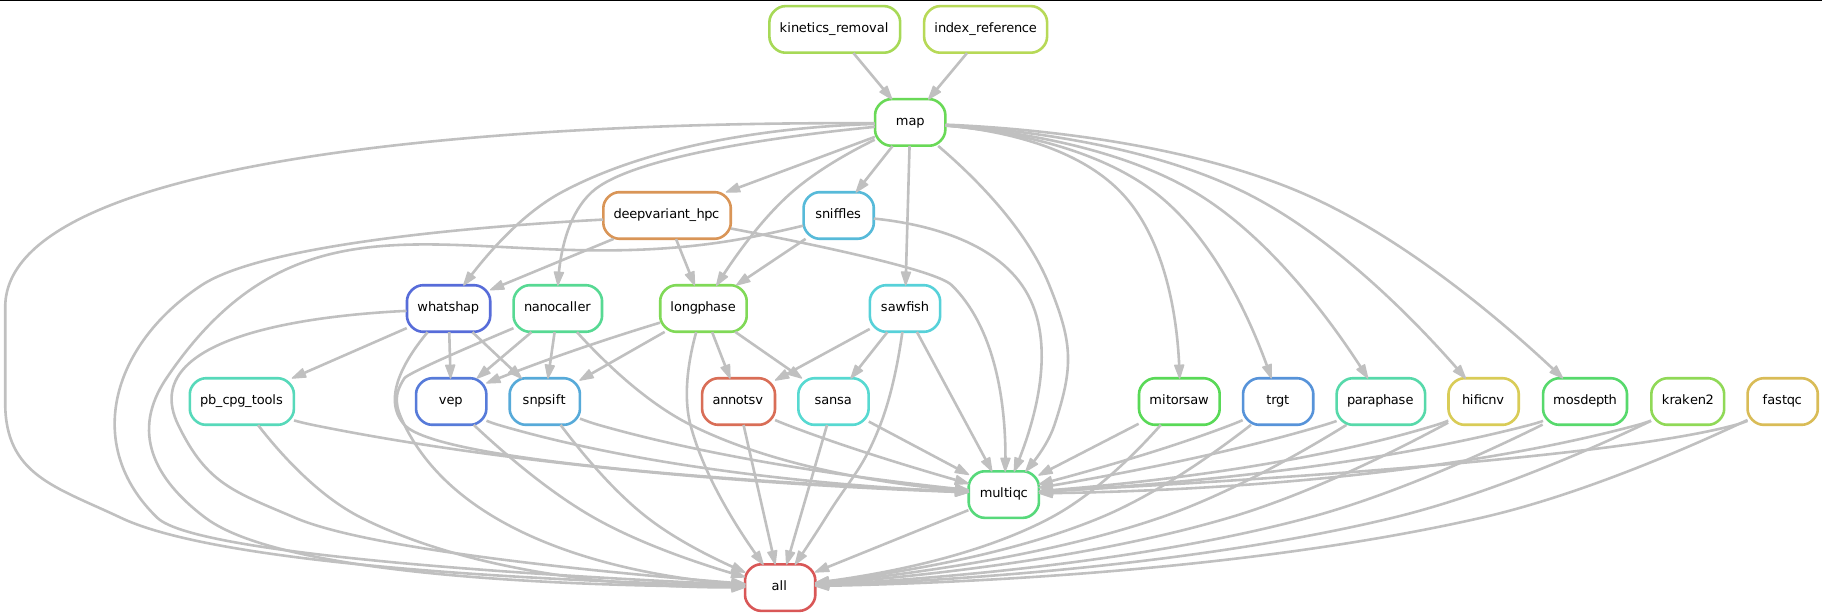
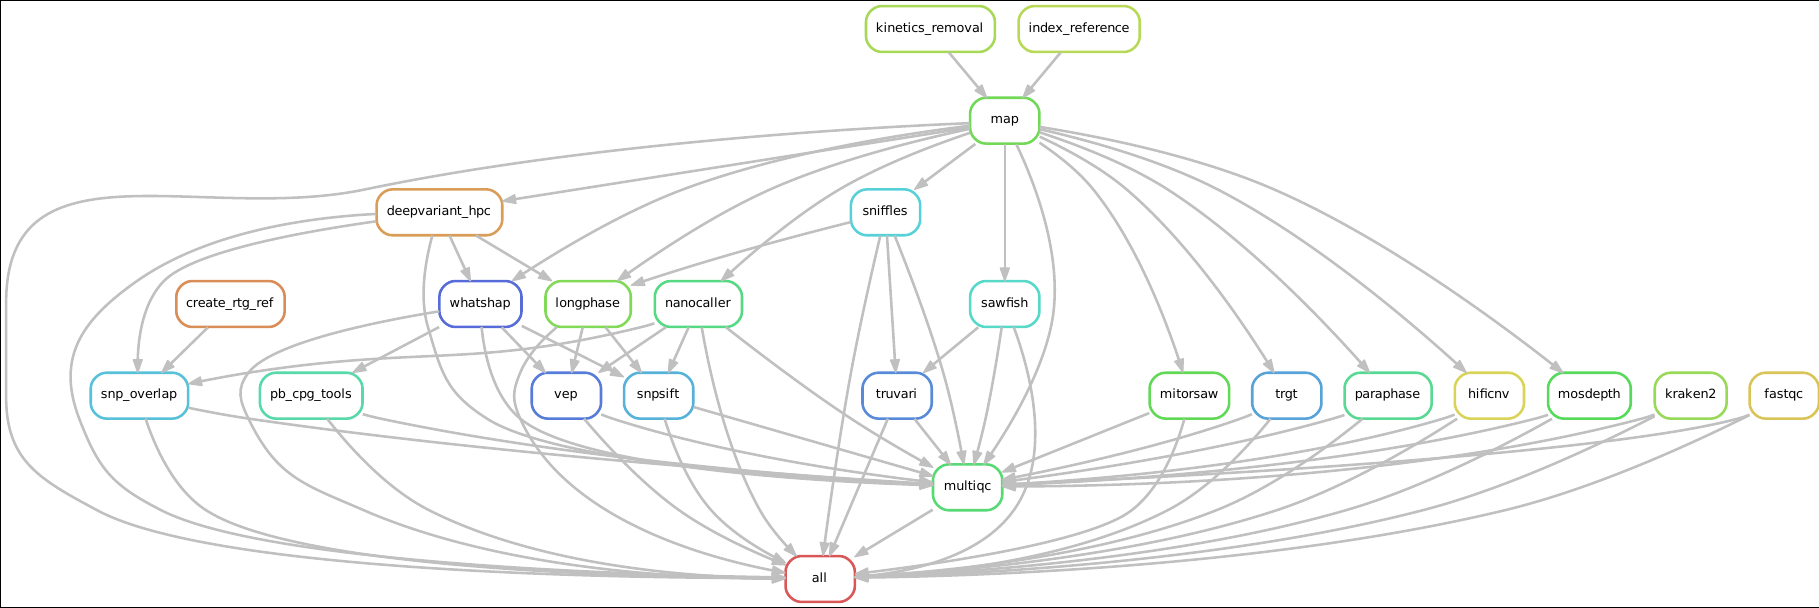
new: overlaps of snps and svs + paraviewer

diff --git a/README.md b/README.md
@@ -5,7 +5,7 @@ Only PacBio data for now
 
 __!!THIS PIPLINE IS IN-DEVELOPMENT AND EXPERIMENTAL, USE AT YOUR OWN RISK!!__
 
-## what this tools aims to deliver:
+## what this tool aims to deliver:
     - newest and best tools suited for HiFi data (only for now)
     - singletons and trio analysis (trio is coming sometime...)
     - human-first (hg38 for now), others should be possible (untested...)
@@ -30,19 +30,23 @@ __!!THIS PIPLINE IS IN-DEVELOPMENT AND EXPERIMENTAL, USE AT YOUR OWN RISK!!__
     - SVs with sansa and AnnotSV
     - SNPs with vep and snpsift
     - both only tested with hg38 for now
+- if enabled, SNPs and SVs get overlaped (compared)
+    - svs: truvari overlaps sniffles as the "truth" to sawfish data for each sample
+    - snps: rtg-tools overlaps deepvariant or bcftools snps as the "truth" to nanocaller snps for each sample
+- if enabled, paraphase results get visualized with paraviewer
 
 ## how to run
 - make sure you have a conda environment active with snakemake9+ (called smk9 in the runPipeline_local.sh)
     - this can also be achieved by running the included setupPipeline_hpc.sh
         - that script uses conda to create the env smk9 - with snakemake 9 installed already (check file smk9.yaml)
-- cp/mv/ln your unmapped .bam file into the root folder of this directory (pb_variants/.)
+- cp/mv/ln your unmapped .bam file into the root folder of this directory (pb_variants/your_bam_file_here.bam)
 - edit samplesheet.csv with your filename 
-    - one sample per line, do not delete the header line
-- edit config.yaml to your liking/ folder structure
+    - one sample per line, do not delete the header line (add to line2: your_bam_file_here.bam)
+- edit config.yaml to your liking/ folder structure (enable only things you want / need. keep in mind some analysis are hg38 only)
 - make sure you are in an interactive terminal session inside a screen / tmux or similar
 - bash runPipeline_local.sh for local installment on single-server setups, 
 - bash runPipeline.sh on HPC 
-- non-hpc users need to edit the config.yaml and enable deepvariant and disable hpc in the config.yaml:
+- non-hpc users need to edit the config.yaml and enable deepvariant and disable deepvariant_hpc in the config.yaml:
 use_deepvariant_hpc: True <- only set this to True on HPC HILBERT
 
 
@@ -115,15 +119,9 @@ This DAG was made:
 
 - if a multiqc_report.html is in the outputfolder then the pipeline is done
 
-- if the interactive job is done, but the pipeline is not done yet, notify me
+- if the interactive job is done, but the pipeline is not done yet, retry
 
-- if no output files arrive after some time, notify me
-
-- if results look odd, notify me
-
-- if you want to understand more, notify me
-
-- if some (except logfiles) output files are 0 byte, notify me
+- if you want to understand more, email me
 
 
 ## transfering results:
@@ -132,12 +130,7 @@ This DAG was made:
 
 
 ## roadmap:
- ´ trio calling : deeptrio, glnexus´
-
-
-
-## roadmap:
-- trio calling : deeptrio, glnexus
+ ´ trio calling : deeptrio, glnexus ´ -> only if there are requests for this. 
 
 
 ## why this work is being done:
